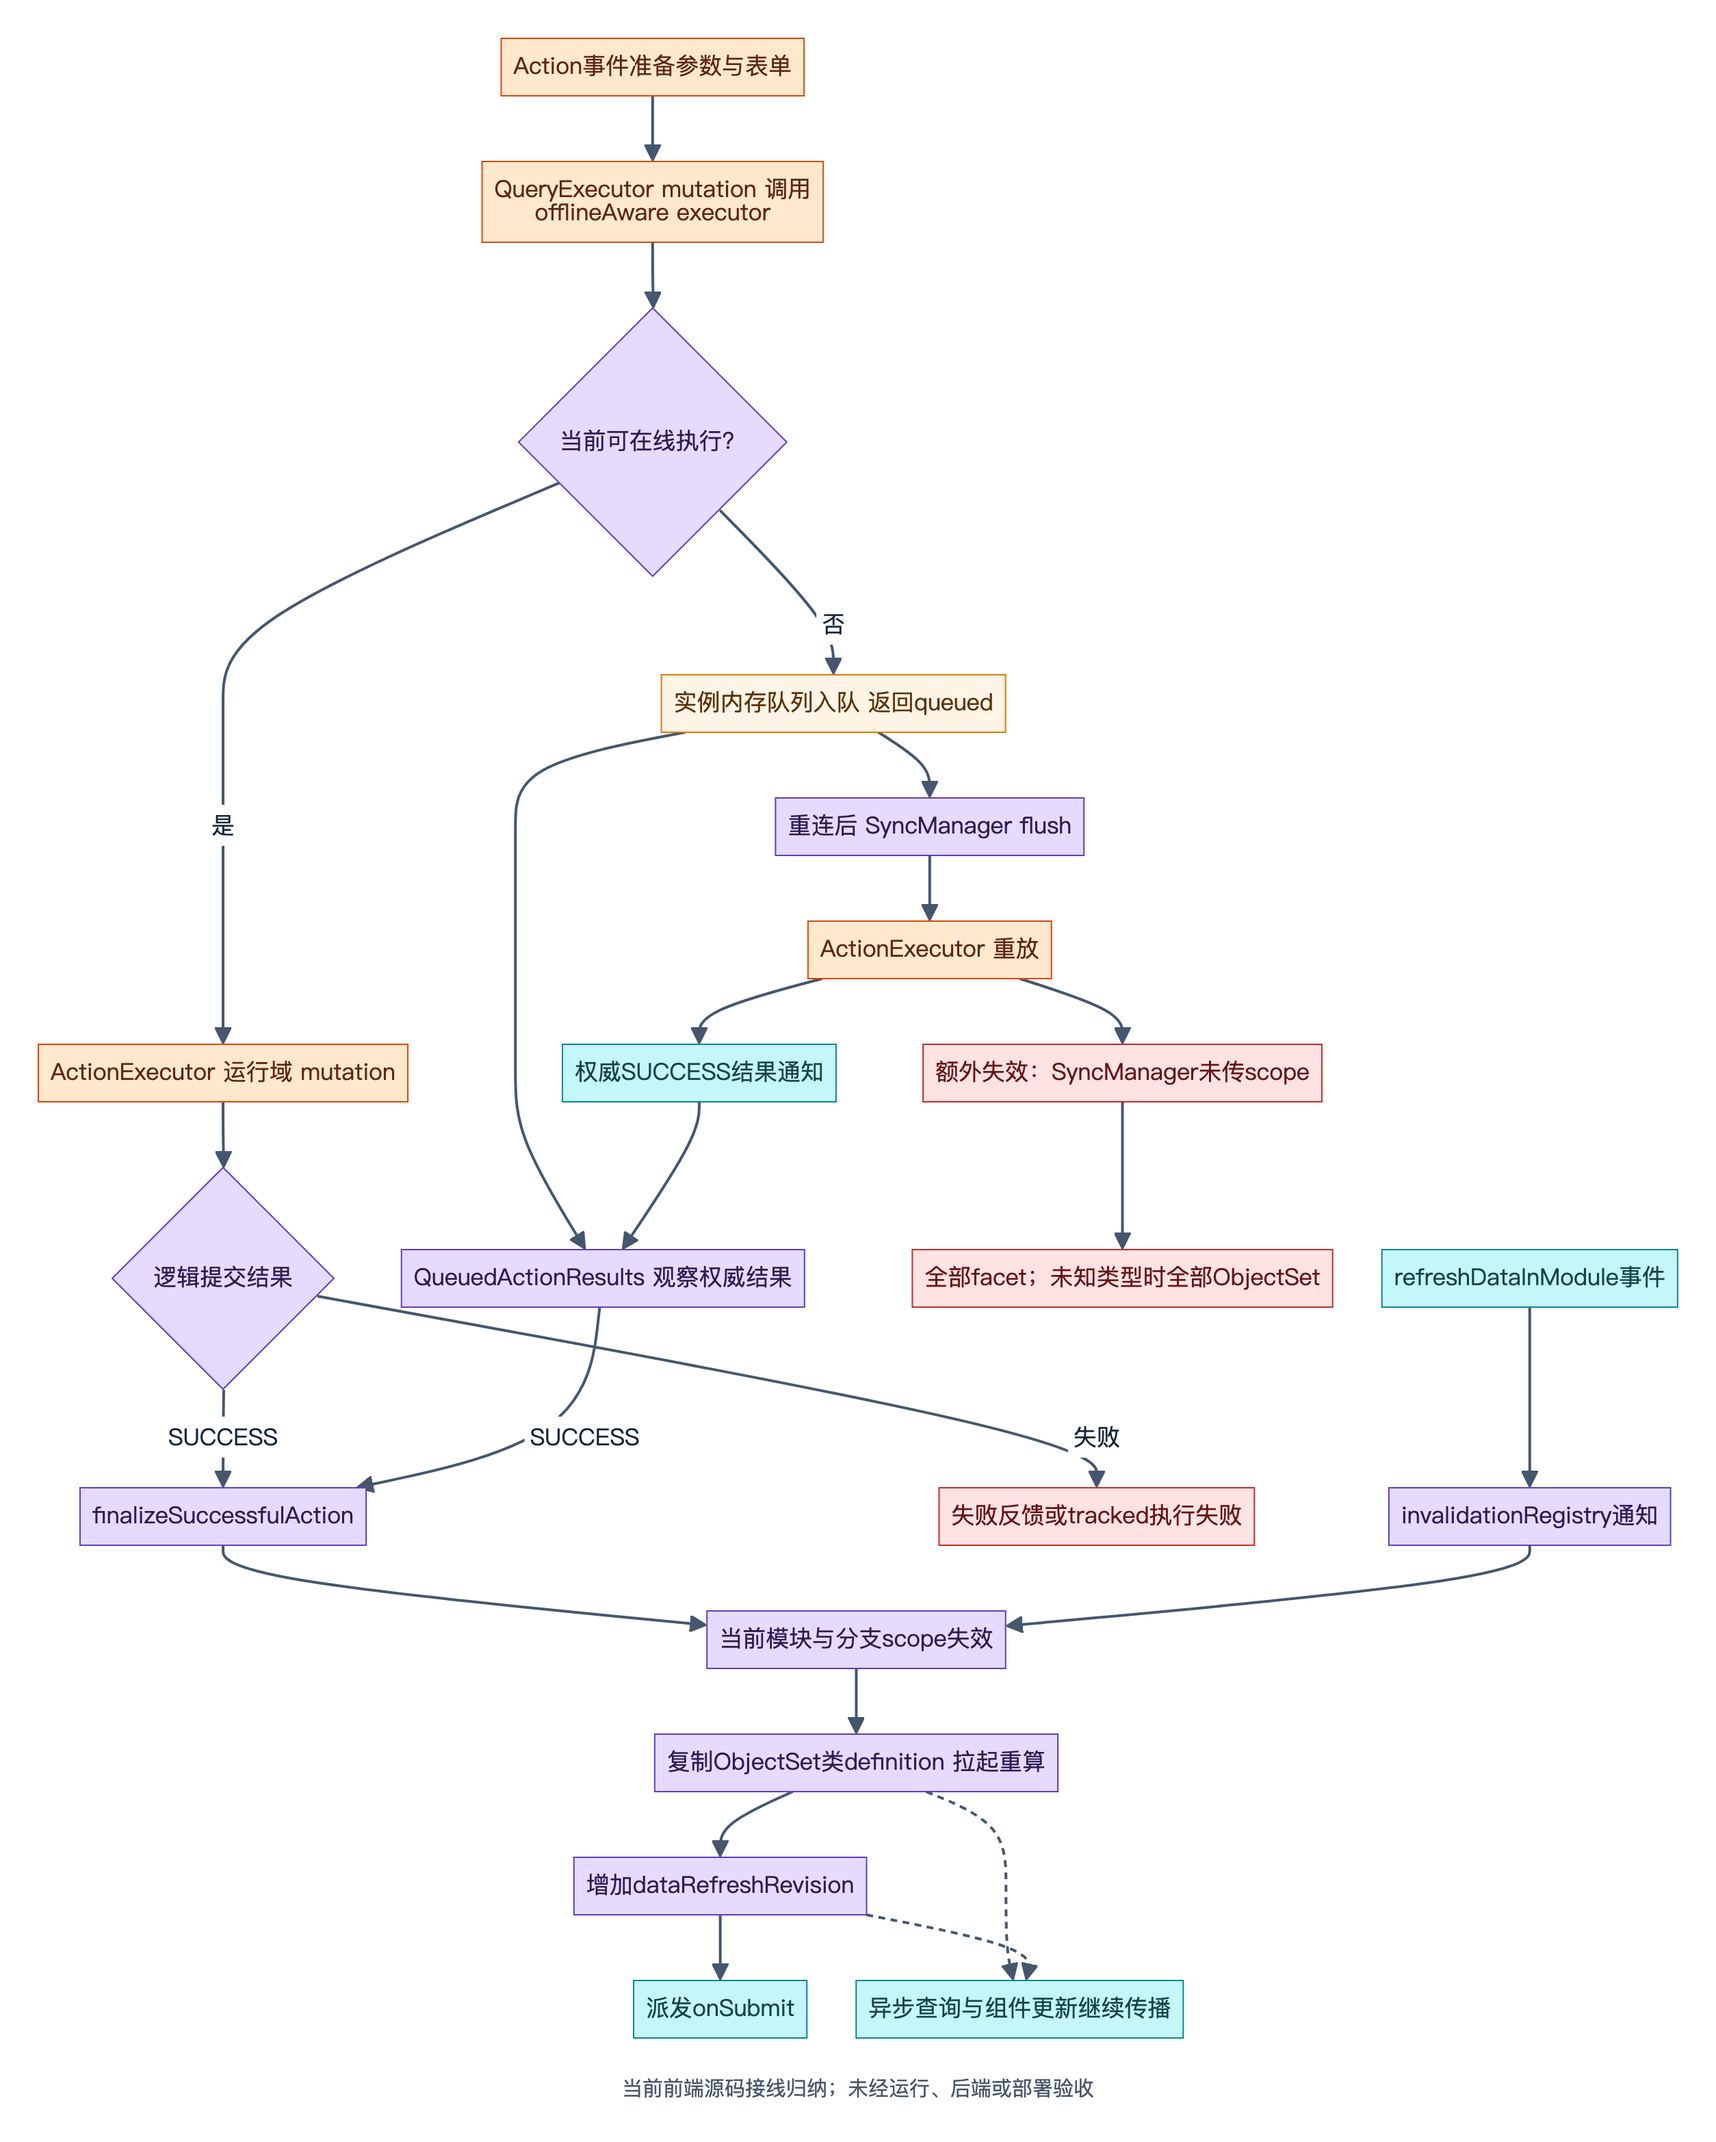
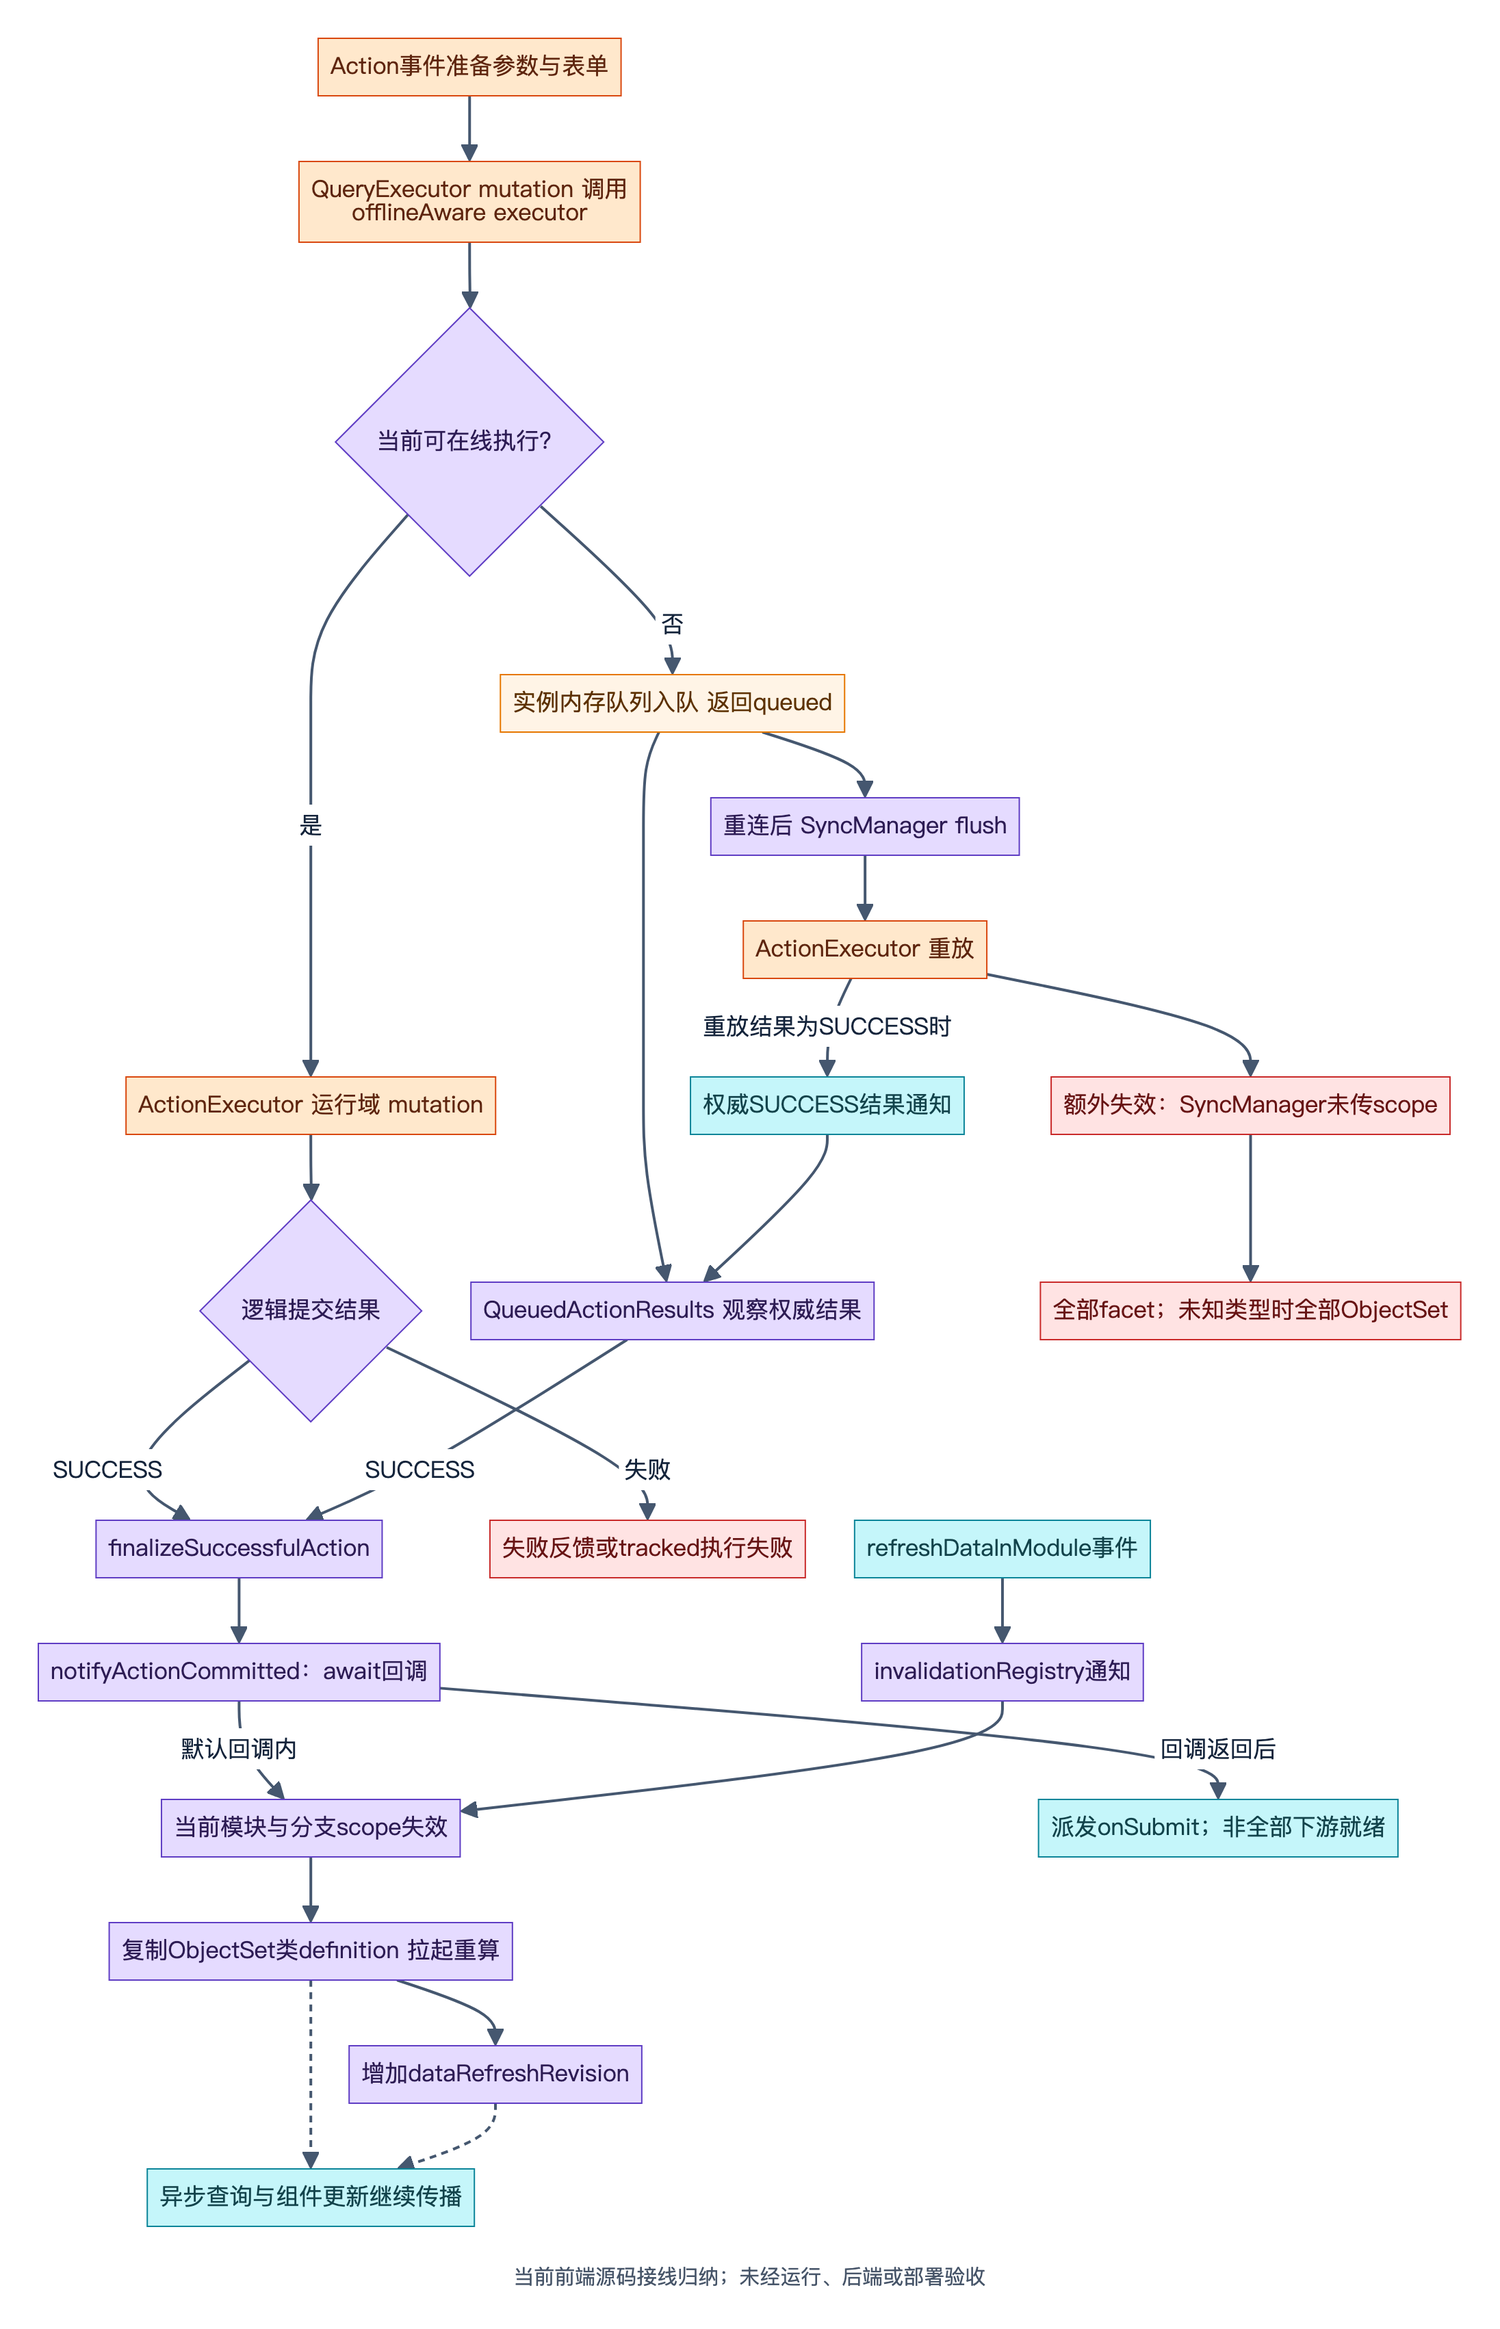
docs: separate Action lifecycle from manual refresh

Changed region(s): [[0.0, 0.0, 0.9927, 0.9917], [0.1861, 0.3409, 0.2172, 0.3719]]

diff --git a/research/workshop-runtime-2026-10/eos-comparison/events-data-evidence.md b/research/workshop-runtime-2026-10/eos-comparison/events-data-evidence.md
@@ -1,6 +1,6 @@
 # EOS Workshop：事件、组件联动与数据刷新现状证据
 
-> 本稿由既有只读报告转换为公开审阅拷贝，以下“本次核对”沿用原静态研究记录。本研究仓库不包含 EOS 源码；相对引用用于用户已有 `eos-workshop` checkout 核查，无法在本仓库直接打开。转换未重新审计 EOS 行为；随后仅只读核验相对路径与行号。未运行 EOS 测试、后端或部署。
+> 本稿由既有只读报告转换为公开审阅拷贝，以下“本次核对”沿用原静态研究记录。本研究仓库不包含 EOS 源码；相对引用用于用户已有 `eos-workshop` checkout 核查，无法在本仓库直接打开。公开转换后只读核验了相对路径与行号，并为图12修订复核相关Action/刷新前端接线；未重新进行全项目行为审计。未运行 EOS 测试、后端或部署。
 > 统一基线：`main @ ea071209ca3bce25e45bbca87a9f90f959ef59ed`；原观测工作区已有27个 tracked 文档变化和5个 untracked 项。本稿包含当时的工作区文档现状，不将其视为固定 HEAD 中已提交内容。
 
 日期：2026-10-01。用途：经用户明确授权公开的架构现状报告，供后续 Palantir Workshop 官方资料对照。原核对阶段未联网；本稿只含说明、图与相对证据引用，不含原始源码整包，未修改 EOS 项目。
@@ -183,13 +183,14 @@ flowchart TB
     reconnect --> replay["ActionExecutor 重放"]
     replay --> broad["额外失效：SyncManager未传scope"]
     broad --> broadscope["全部facet；未知类型时全部ObjectSet"]
-    replay --> settled["权威SUCCESS结果通知"]
+    replay -->|重放结果为SUCCESS时| settled["权威SUCCESS结果通知"]
     settled --> wait
     wait -->|SUCCESS| finalize
-    finalize --> refresh["当前模块与分支scope失效"]
+    finalize --> committed["notifyActionCommitted：await回调"]
+    committed -->|默认回调内| refresh["当前模块与分支scope失效"]
+    committed -->|回调返回后| lifecycle["派发onSubmit；非全部下游就绪"]
     refresh --> recompute["复制ObjectSet类definition 拉起重算"]
     recompute --> revision["增加dataRefreshRevision"]
-    revision --> lifecycle["派发onSubmit"]
     recompute -.-> fetching["异步查询与组件更新继续传播"]
     revision -.-> fetching
     manual["refreshDataInModule事件"] --> registry["invalidationRegistry通知"]
@@ -200,7 +201,7 @@ flowchart TB
     classDef result fill:#c5f6fa,stroke:#0c8599,color:#12434b;
     classDef exception fill:#ffe3e3,stroke:#c92a2a,color:#671414;
     class start,submit,execute,replay action;
-    class mode,result,wait,reconnect,finalize,refresh,recompute,revision,registry process;
+    class mode,result,wait,reconnect,finalize,committed,refresh,recompute,revision,registry process;
     class queued storage;
     class lifecycle,fetching,settled,manual result;
     class broad,broadscope,failure exception;
@@ -208,7 +209,9 @@ flowchart TB
 
 </details>
 
-图只表示已核实接线；在线QueryExecutor自身在mutation resolved时还先失效一次，图压缩为成功回调的主刷新链。failed逻辑payload也可能经过mutation onSuccess失效，详见第五节。独立ActionForm的异步notifyCommitted/onSuccess路径不包含在这张事件Action主链图中。
+图只表示已核实接线；成功finalize路径await的是onActionCommitted回调返回，随后才派发onSubmit，不保证全部新查询或下游组件已经就绪。tracked执行中刷新异常会中断后续派发；普通派发捕获刷新异常、记录warning后继续，详见第五节。手动refreshDataInModule只通知registry，监听器以void启动同一刷新函数；共享刷新链结束于revision更新并继续异步查询，不派发Action onSubmit。该顺序已只读复核 `packages/kernel/src/events/handlers/ApplicationEventHandler.ts:770–779,1117–1130`、`packages/kernel/src/events/handlers/DataEventHandler.ts:17–24` 与 `packages/runtime/src/bootstrap/VariableEngineRuntimeProvider.tsx:198–216,390–399`。
+
+在线QueryExecutor自身在mutation resolved时还先失效一次，图压缩为成功回调的主刷新链。failed逻辑payload也可能经过mutation onSuccess失效，详见第五节。离线重放可能成功、失败或继续queued；图中SUCCESS边只覆盖已得到成功结果的情况。独立ActionForm的异步notifyCommitted/onSuccess路径不包含在这张事件Action主链图中。
 
 ## 七、metadata生命周期与幂等保证仍有边界
 

diff --git a/research/workshop-runtime-2026-10/checks.md b/research/workshop-runtime-2026-10/checks.md
@@ -12,7 +12,8 @@
 | 公开资料修订 | Action重试覆盖执行/提交期间的瞬时失败；Logic写入须已发布并经Action调用，但并非全部Action使用Logic；auto-refresh在嵌入模块上下文不生效；补宿主刷新桥接及ObjectSet参数范围 | 与对应官方文档一致，不扩大完整缓存/事务保证 |
 | EOS静态源码核对 | 分支main，HEAD `ea071209ca3bce25e45bbca87a9f90f959ef59ed`；当前工作区已有27个tracked文档修改/删除及5个untracked顶层条目 | 明确固定提交、未提交文档与当前源码的区别；已实现只表示消费者/装配点存在 |
 | EOS公开拷贝与独立复核 | 原5份只读报告按用户明确授权转换；移除绝对工作站路径、内部地址和无关内容；保留源码相对路径、实现差异、架构图及静态风险 | 用户已批准的公开架构/对照范围；未包含原始源码包 |
-| EOS引用定位 | 重新只读核验397个唯一文件引用及5个目录/通配引用；文件、目录及全部引用行号有效 | 当前工作区证据可定位；不是行为或后端验收 |
+| EOS引用定位 | 重新只读核验399个唯一文件引用及5个目录/通配引用；文件、目录及全部引用行号有效 | 当前工作区证据可定位；不是行为或后端验收 |
+| 图12父侧复核修订 | 只读复核Action成功finalize、committed回调、手动registry监听及queued结果：onSubmit仅挂成功Action路径并等待回调返回；手动刷新不派发它；离线成功边注明SUCCESS条件 | 前端源码的顺序/调用边界；等待committed回调不等于所有新查询与下游组件就绪 |
 | Markdown与本地链接 | 11个专题Markdown文件围栏闭合，正文图像和本地链接目标存在；源码引用保持相对路径代码文本 | 文档结构与所选研究仓库base内的文件目标 |
 | Mermaid实际解析与导出 | 全部15个源图使用已有Mermaid 10.9.1离线解析，导出30个PNG/SVG；ELK虚线按解析出的edge.stroke恢复并逐边核对 | 图可实际渲染，源文字/拓扑与导出连线一致；不证明产品机制执行通过 |
 | 图像视觉检查 | 所有PNG以原尺寸实际查看；EOS图另由两位审阅者分组复核；中文、箭头、分组标题、标签和证据边界页脚完整可读，无阻塞裁切/遮挡 | 本次导出尺寸的视觉可读性；没有登录GitHub做平台界面预览 |

diff --git a/research/workshop-runtime-2026-10/eos-comparison/README.md b/research/workshop-runtime-2026-10/eos-comparison/README.md
@@ -127,4 +127,4 @@ flowchart TB
 
 EOS 源码核对未运行测试、应用或业务请求；浏览器仅用于离线图像渲染，未读取 eos-core 后端。因此真实身份授权、服务器CAS/事务/幂等、部署状态、性能数字与实际故障恢复都没有本次实测证据。原核对阶段当前源码可读且无阻塞。本对照稿的相对源码路径、内部状态图、差异表与优先级建议已经用户明确授权公开；本稿以独立draft PR审阅，不回写EOS源码。
 
-原只读报告完成时再次读取的 HEAD 仍为 `ea071209ca3bce25e45bbca87a9f90f959ef59ed`，Git porcelain工作区状态与首次观测完全一致。原核对记录确认五份报告的145个源码文件链接（98个唯一文件）目标和行号有效；这只验证证据定位，不证明运行行为。本次公开转换将这些链接改为相对路径代码文本，并再次只读核验397个唯一文件引用及5个目录/通配引用的目标和行号，未发现缺失或越界。公开主稿7张概念图与本对照稿8张当前前端图均已使用现有本机 Mermaid 10.9.1 实际解析、离线导出 PNG/SVG，并以原尺寸视觉复核。未安装依赖；图的渲染通过不代表 EOS 产品运行验收。素材出处、尺寸和校验值见 [assets](../assets.md)，完整检查见 [checks](../checks.md)。
+原只读报告完成时再次读取的 HEAD 仍为 `ea071209ca3bce25e45bbca87a9f90f959ef59ed`，Git porcelain工作区状态与首次观测完全一致。原核对记录确认五份报告的145个源码文件链接（98个唯一文件）目标和行号有效；这只验证证据定位，不证明运行行为。本次公开转换将这些链接改为相对路径代码文本，并再次只读核验399个唯一文件引用及5个目录/通配引用的目标和行号，未发现缺失或越界。公开主稿7张概念图与本对照稿8张当前前端图均已使用现有本机 Mermaid 10.9.1 实际解析、离线导出 PNG/SVG，并以原尺寸视觉复核。未安装依赖；图的渲染通过不代表 EOS 产品运行验收。素材出处、尺寸和校验值见 [assets](../assets.md)，完整检查见 [checks](../checks.md)。
